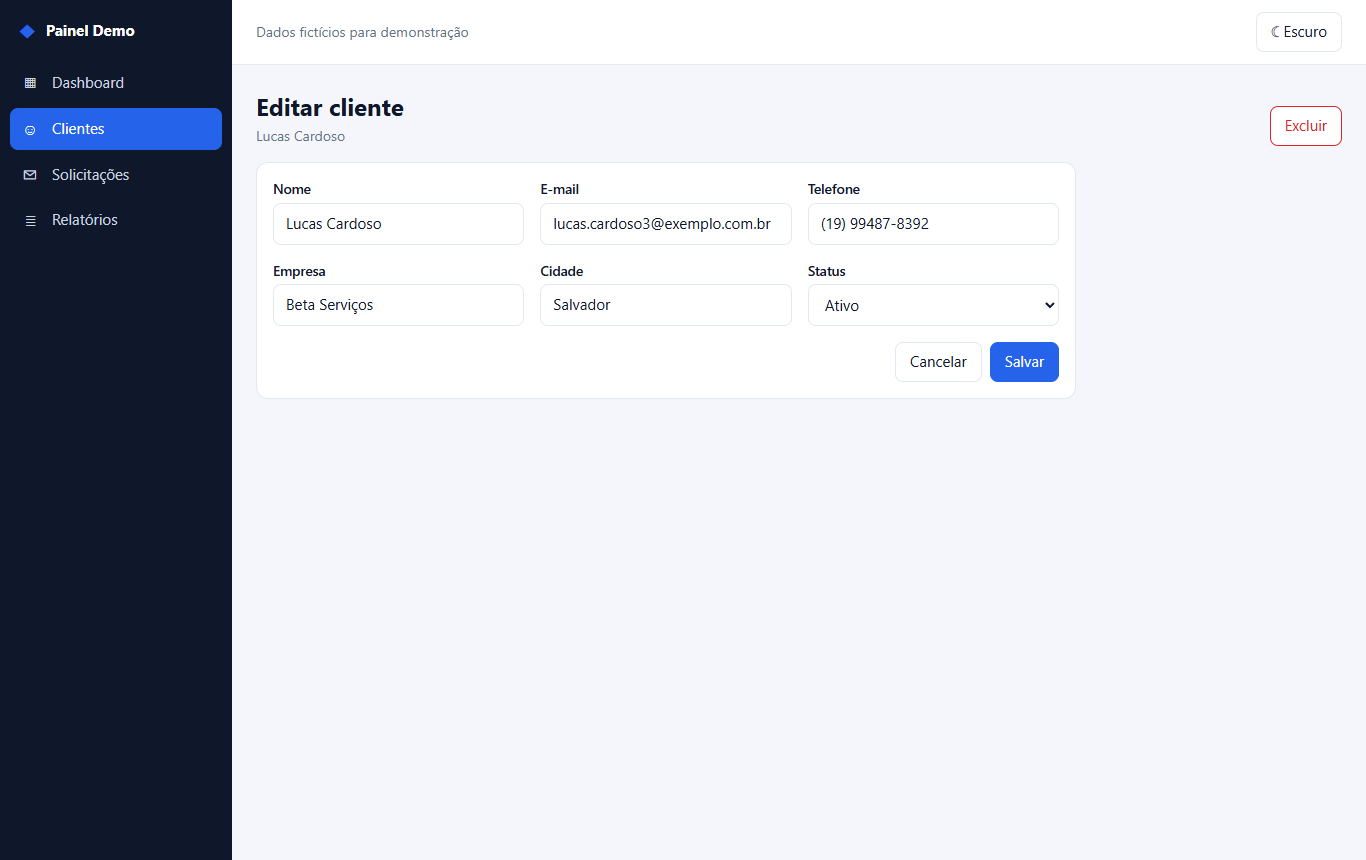
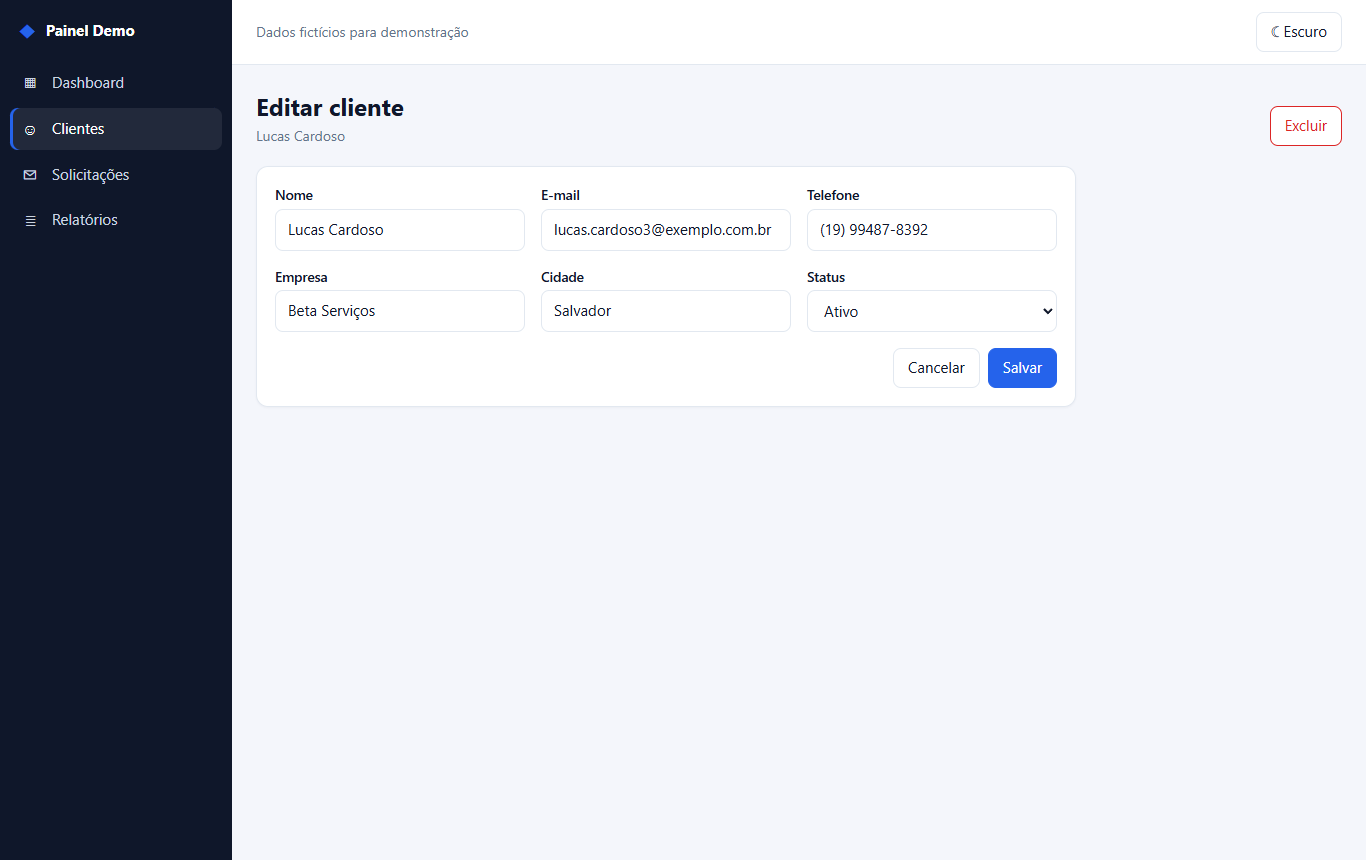
Visual mais sóbrio: cores semânticas nos gráficos e hierarquia mais clara
Uma cor só para séries neutras; status e prioridade usam as mesmas
cores dos badges. Menu ativo, abas, títulos de card e filtros com
menos competição visual.

diff --git a/src/styles.css b/src/styles.css
@@ -14,7 +14,7 @@
 }
 * { box-sizing: border-box; }
 body { margin: 0; font-family: system-ui, -apple-system, 'Segoe UI', Roboto, sans-serif; background: var(--bg); color: var(--texto); font-size: 15px; line-height: 1.45; }
-h1 { font-size: 1.5rem; margin: 0; } h2 { font-size: 1rem; margin: 0; } h3 { margin: 0 0 .5rem; }
+h1 { font-size: 1.5rem; margin: 0; } h2 { font-size: .9rem; font-weight: 600; color: var(--muted); margin: 0; } h3 { margin: 0 0 .5rem; }
 .muted { color: var(--muted); font-size: .875rem; }
 .app { display: grid; grid-template-columns: 232px 1fr; min-height: 100vh; }
 .app.recolhido { grid-template-columns: 68px 1fr; }
@@ -24,7 +24,7 @@ h1 { font-size: 1.5rem; margin: 0; } h2 { font-size: 1rem; margin: 0; } h3 { mar
 .sidebar nav { display: flex; flex-direction: column; gap: 4px; flex: 1; }
 .sidebar nav a { display: flex; align-items: center; gap: 12px; padding: 10px; border-radius: 8px; color: inherit; text-decoration: none; }
 .sidebar nav a:hover { background: rgba(255,255,255,.07); }
-.sidebar nav a.ativo { background: var(--primaria); color: #fff; }
+.sidebar nav a.ativo { background: rgba(255,255,255,.08); color: #fff; box-shadow: inset 3px 0 0 var(--primaria); }
 .icone { width: 20px; text-align: center; }
 .recolher { color: var(--side-texto); text-align: left; }
 .recolhido .rotulo, .recolhido .marca-texto { display: none; }
@@ -32,16 +32,16 @@ h1 { font-size: 1.5rem; margin: 0; } h2 { font-size: 1rem; margin: 0; } h3 { mar
 .conteudo { min-width: 0; }
 .topbar { display: flex; align-items: center; justify-content: space-between; gap: 12px; padding: 12px 24px; border-bottom: 1px solid var(--borda); background: var(--card); position: sticky; top: 0; z-index: 5; }
 .menu-mobile { display: none; }
-main { padding: 24px; max-width: 1280px; margin: 0 auto; display: flex; flex-direction: column; gap: 16px; }
+main { padding: 24px; max-width: 1280px; margin: 0 auto; display: flex; flex-direction: column; gap: 20px; }
 .page-header { display: flex; justify-content: space-between; align-items: flex-end; gap: 12px; flex-wrap: wrap; }
 .page-header p { margin: 2px 0 0; }
 .acoes { display: flex; gap: 8px; align-items: center; flex-wrap: wrap; }
-.card { background: var(--card); border: 1px solid var(--borda); border-radius: 12px; padding: 16px; min-width: 0; }
+.card { background: var(--card); border: 1px solid var(--borda); border-radius: 12px; padding: 18px; min-width: 0; box-shadow: 0 1px 2px rgba(15,23,42,.04); }
 .card-head { display: flex; justify-content: space-between; align-items: center; margin-bottom: 12px; }
 .grid-kpi { display: grid; grid-template-columns: repeat(auto-fit, minmax(190px, 1fr)); gap: 16px; }
 .grid-2 { display: grid; grid-template-columns: repeat(auto-fit, minmax(min(100%, 420px), 1fr)); gap: 16px; }
 .kpi { display: flex; flex-direction: column; gap: 2px; }
-.kpi-rotulo { color: var(--muted); font-size: .85rem; } .kpi-valor { font-size: 1.7rem; } .kpi-detalhe { color: var(--muted); font-size: .8rem; }
+.kpi-rotulo { color: var(--muted); font-size: .8rem; font-weight: 600; } .kpi-valor { font-size: 1.75rem; font-weight: 700; letter-spacing: -.01em; } .kpi-detalhe { color: var(--muted); font-size: .8rem; }
 .btn { font: inherit; border: 1px solid var(--borda); background: var(--card); color: var(--texto); padding: 8px 14px; border-radius: 8px; cursor: pointer; min-height: 40px; }
 .btn:hover:not(:disabled) { background: var(--hover); }
 .btn:disabled { opacity: .5; cursor: not-allowed; }
@@ -51,7 +51,7 @@ main { padding: 24px; max-width: 1280px; margin: 0 auto; display: flex; flex-dir
 .btn-ghost { border-color: transparent; background: transparent; }
 :focus-visible { outline: 2px solid var(--primaria); outline-offset: 2px; }
 .input { font: inherit; width: 100%; padding: 9px 12px; border: 1px solid var(--borda); border-radius: 8px; background: var(--card); color: var(--texto); min-height: 40px; }
-.filterbar { display: flex; flex-wrap: wrap; gap: 10px; align-items: flex-end; margin-bottom: 14px; }
+.filterbar { display: flex; flex-wrap: wrap; gap: 10px; align-items: flex-end; padding-bottom: 14px; margin-bottom: 6px; border-bottom: 1px solid var(--borda); }
 .filterbar .busca { flex: 1 1 240px; width: auto; }
 .campo-inline { display: flex; flex-direction: column; gap: 2px; font-size: .78rem; color: var(--muted); }
 .campo-inline .input { min-width: 140px; }
@@ -76,7 +76,7 @@ main { padding: 24px; max-width: 1280px; margin: 0 auto; display: flex; flex-dir
 .card-form { max-width: 820px; } .aviso-ok { background: var(--verde-bg); color: var(--verde); padding: 10px 14px; border-radius: 8px; margin: 0 0 14px; }
 .abas { display: flex; gap: 6px; overflow-x: auto; }
 .aba { font: inherit; border: 1px solid var(--borda); background: var(--card); color: var(--texto); padding: 8px 14px; border-radius: 999px; cursor: pointer; white-space: nowrap; min-height: 40px; }
-.aba.ativa { background: var(--primaria); border-color: var(--primaria); color: #fff; }
+.aba.ativa { background: var(--texto); border-color: var(--texto); color: var(--card); }
 .contador { opacity: .75; margin-left: 4px; }
 .split { display: grid; gap: 16px; align-items: start; } .split.com-detalhe { grid-template-columns: minmax(0, 1fr) 340px; }
 .dl { display: grid; grid-template-columns: auto 1fr; gap: 6px 14px; margin: 14px 0; } .dl dt { color: var(--muted); } .dl dd { margin: 0; }

diff --git a/src/components/Chart.tsx b/src/components/Chart.tsx
@@ -1,10 +1,14 @@
 import { Bar, BarChart, CartesianGrid, Cell, Line, LineChart, Pie, PieChart, ResponsiveContainer, Tooltip, XAxis, YAxis } from 'recharts'
 
-export const CORES = ['#2563eb', '#16a34a', '#f59e0b', '#dc2626', '#7c3aed', '#0891b2']
+// Uma cor neutra para séries sem significado; cores semânticas só quando a categoria tem significado
+// (as mesmas dos badges: azul = aberta, âmbar = em andamento/média, verde = concluída, vermelho = alta).
+export const COR_SERIE = '#3b82f6'
+export const COR = { azul: '#3b82f6', ambar: '#f59e0b', verde: '#22c55e', vermelho: '#ef4444', cinza: '#94a3b8' }
 
 export interface Ponto {
   nome: string
   valor: number
+  cor?: string
 }
 
 const eixo = { stroke: 'var(--muted)', fontSize: 12 }
@@ -15,11 +19,11 @@ export function GraficoLinha({ dados, formato }: { dados: Ponto[]; formato?: (v:
     <div className="grafico" role="img" aria-label="Gráfico de linha">
       <ResponsiveContainer width="100%" height={240} initialDimension={{ width: 500, height: 240 }}>
         <LineChart data={dados} margin={{ top: 8, right: 8, left: -8, bottom: 0 }}>
-          <CartesianGrid strokeDasharray="3 3" stroke="var(--borda)" />
+          <CartesianGrid vertical={false} stroke="var(--borda)" />
           <XAxis dataKey="nome" {...eixo} />
           <YAxis {...eixo} tickFormatter={formato} width={56} />
           <Tooltip {...dica} formatter={(v) => (formato ? formato(Number(v)) : String(v))} />
-          <Line isAnimationActive={false} type="monotone" dataKey="valor" stroke={CORES[0]} strokeWidth={2.5} dot={{ r: 3 }} />
+          <Line isAnimationActive={false} type="monotone" dataKey="valor" stroke={COR_SERIE} strokeWidth={2.5} dot={{ r: 3 }} />
         </LineChart>
       </ResponsiveContainer>
     </div>
@@ -31,13 +35,13 @@ export function GraficoBarra({ dados }: { dados: Ponto[] }) {
     <div className="grafico" role="img" aria-label="Gráfico de barras">
       <ResponsiveContainer width="100%" height={240} initialDimension={{ width: 500, height: 240 }}>
         <BarChart data={dados} margin={{ top: 8, right: 8, left: -16, bottom: 0 }}>
-          <CartesianGrid strokeDasharray="3 3" stroke="var(--borda)" />
+          <CartesianGrid vertical={false} stroke="var(--borda)" />
           <XAxis dataKey="nome" {...eixo} />
           <YAxis {...eixo} allowDecimals={false} />
           <Tooltip {...dica} cursor={{ fill: 'var(--hover)' }} />
-          <Bar isAnimationActive={false} dataKey="valor" radius={[6, 6, 0, 0]}>
-            {dados.map((_, i) => (
-              <Cell key={i} fill={CORES[i % CORES.length]} />
+          <Bar isAnimationActive={false} dataKey="valor" radius={[4, 4, 0, 0]} maxBarSize={36}>
+            {dados.map((d, i) => (
+              <Cell key={i} fill={d.cor ?? COR_SERIE} />
             ))}
           </Bar>
         </BarChart>
@@ -52,17 +56,17 @@ export function GraficoPizza({ dados }: { dados: Ponto[] }) {
       <ResponsiveContainer width="100%" height={240} initialDimension={{ width: 500, height: 240 }}>
         <PieChart>
           <Pie isAnimationActive={false} data={dados} dataKey="valor" nameKey="nome" innerRadius={50} outerRadius={85} paddingAngle={2} stroke="none">
-            {dados.map((_, i) => (
-              <Cell key={i} fill={CORES[i % CORES.length]} />
+            {dados.map((d, i) => (
+              <Cell key={i} fill={d.cor ?? COR_SERIE} />
             ))}
           </Pie>
           <Tooltip {...dica} />
         </PieChart>
       </ResponsiveContainer>
       <ul className="legenda">
-        {dados.map((d, i) => (
+        {dados.map((d) => (
           <li key={d.nome}>
-            <i style={{ background: CORES[i % CORES.length] }} /> {d.nome}: <strong>{d.valor}</strong>
+            <i style={{ background: d.cor ?? COR_SERIE }} /> {d.nome}: <strong>{d.valor}</strong>
           </li>
         ))}
       </ul>

diff --git a/src/pages/Relatorios.tsx b/src/pages/Relatorios.tsx
@@ -3,12 +3,14 @@ import { Card, Kpi, PageHeader } from '../components/ui'
 import { CampoData, FilterBar, Selecao } from '../components/FilterBar'
 import { Table, type Coluna } from '../components/Table'
 import { StatusSolBadge } from '../components/badges'
-import { GraficoBarra } from '../components/Chart'
+import { COR, GraficoBarra } from '../components/Chart'
 import { baixarCsv, gerarCsv, type ColunaCsv } from '../domain/csv'
 import { filtrarSolicitacoes } from '../domain/consultas'
 import { dataBr } from '../domain/formatar'
 import { ROTULO_PRIORIDADE, ROTULO_STATUS_SOLICITACAO, type Solicitacao, type StatusSolicitacao } from '../domain/types'
 import { useDados } from '../state'
+
+const COR_PRIORIDADE = { alta: COR.vermelho, media: COR.ambar, baixa: COR.cinza }
 
 export function colunasCsv(nomeCliente: (id: string) => string): ColunaCsv<Solicitacao>[] {
   return [
@@ -28,7 +30,7 @@ export function Relatorios() {
   const [ate, setAte] = useState('')
   const nomeCliente = (id: string) => clientes.find((c) => c.id === id)?.nome ?? '—'
   const lista = useMemo(() => filtrarSolicitacoes(solicitacoes, { status, de, ate }), [solicitacoes, status, de, ate])
-  const porPrioridade = (['alta', 'media', 'baixa'] as const).map((p) => ({ nome: ROTULO_PRIORIDADE[p], valor: lista.filter((s) => s.prioridade === p).length }))
+  const porPrioridade = (['alta', 'media', 'baixa'] as const).map((p) => ({ nome: ROTULO_PRIORIDADE[p], valor: lista.filter((s) => s.prioridade === p).length, cor: COR_PRIORIDADE[p] }))
 
   const colunas: Coluna<Solicitacao>[] = [
     { chave: 'id', titulo: 'Código', render: (s) => s.id },

diff --git a/src/pages/Dashboard.tsx b/src/pages/Dashboard.tsx
@@ -1,11 +1,13 @@
 import { useMemo } from 'react'
 import { Card, Kpi, PageHeader, Vazio } from '../components/ui'
-import { GraficoBarra, GraficoLinha, GraficoPizza } from '../components/Chart'
+import { COR, GraficoBarra, GraficoLinha, GraficoPizza } from '../components/Chart'
 import { contarPor } from '../domain/consultas'
 import { indicadores, porMes, rotuloMes } from '../domain/indicadores'
 import { moeda, tempoRelativo } from '../domain/formatar'
 import { ROTULO_STATUS_SOLICITACAO } from '../domain/types'
 import { useDados } from '../state'
+
+const COR_STATUS = { aberta: COR.azul, em_andamento: COR.ambar, concluida: COR.verde }
 
 export function Dashboard() {
   const { clientes, solicitacoes, atividades } = useDados()
@@ -14,7 +16,7 @@ export function Dashboard() {
   const novos = useMemo(() => porMes(clientes, (c) => c.criadoEm).map((p) => ({ nome: rotuloMes(p.mes), valor: p.total })), [clientes])
   const status = useMemo(() => {
     const c = contarPor(solicitacoes, (s) => s.status)
-    return (Object.keys(ROTULO_STATUS_SOLICITACAO) as (keyof typeof ROTULO_STATUS_SOLICITACAO)[]).map((s) => ({ nome: ROTULO_STATUS_SOLICITACAO[s], valor: c[s] ?? 0 }))
+    return (Object.keys(ROTULO_STATUS_SOLICITACAO) as (keyof typeof ROTULO_STATUS_SOLICITACAO)[]).map((s) => ({ nome: ROTULO_STATUS_SOLICITACAO[s], valor: c[s] ?? 0, cor: COR_STATUS[s] }))
   }, [solicitacoes])
 
   return (
